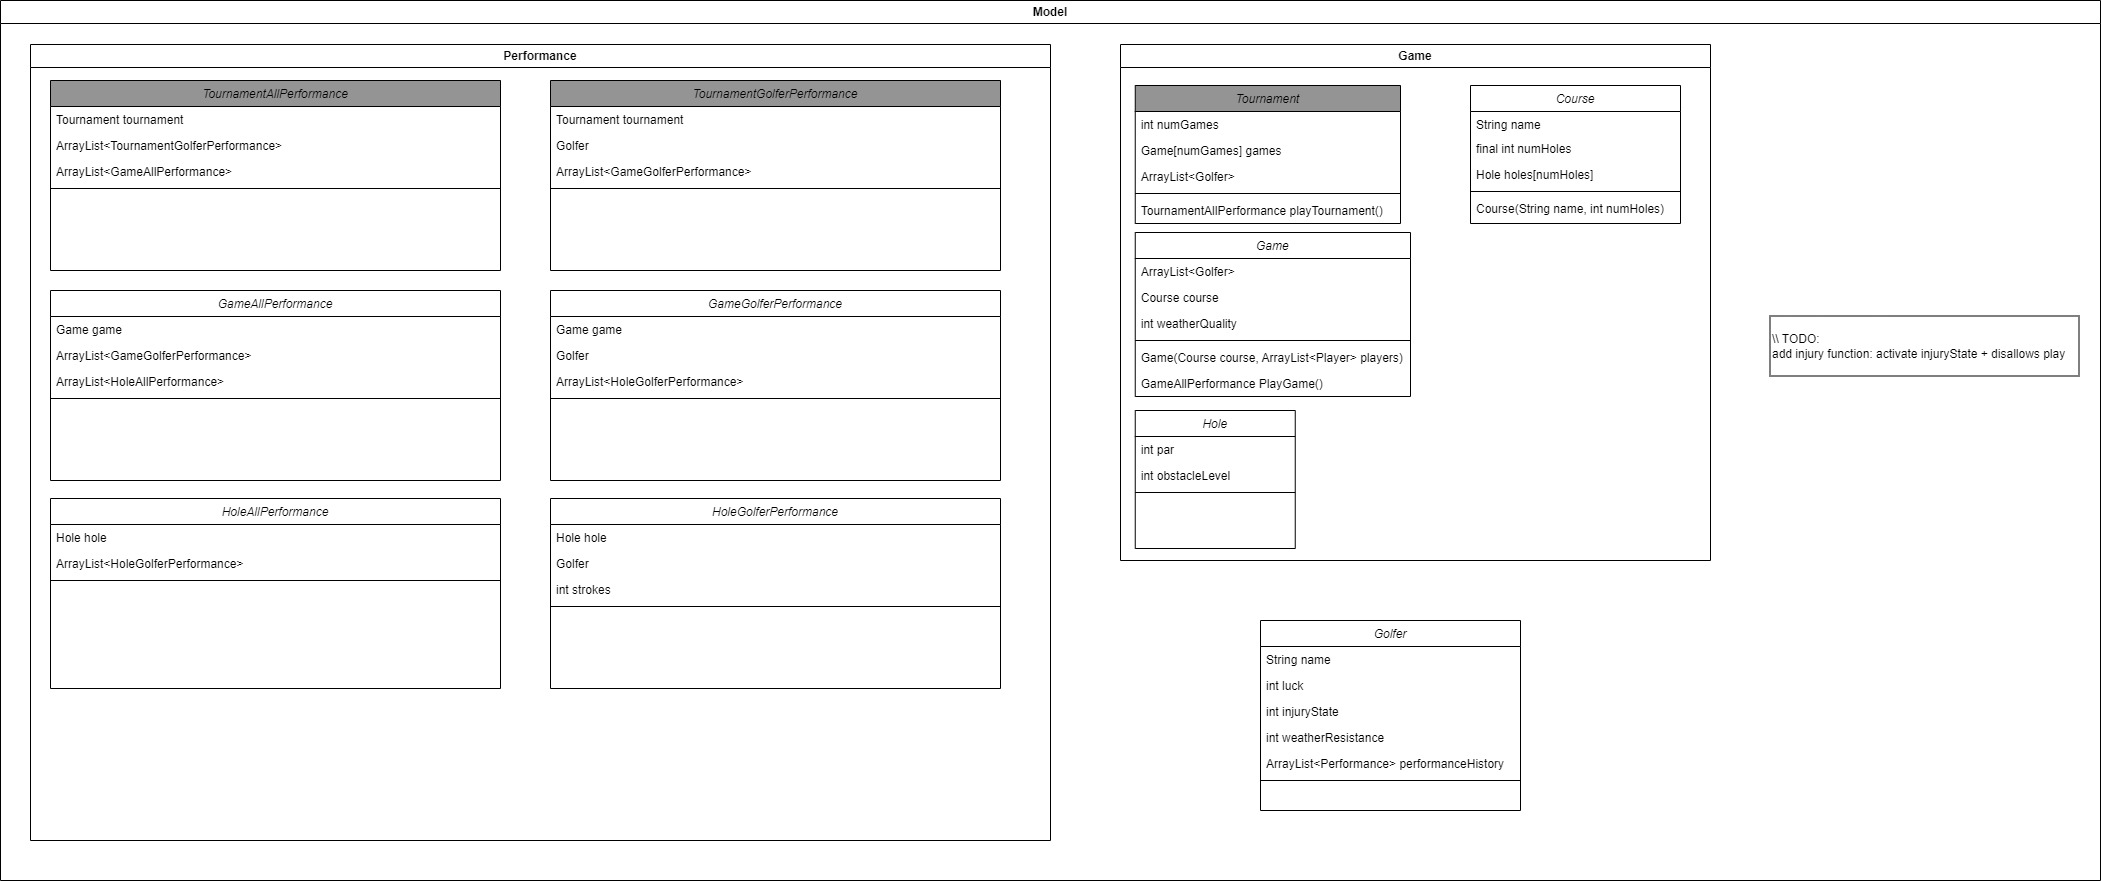
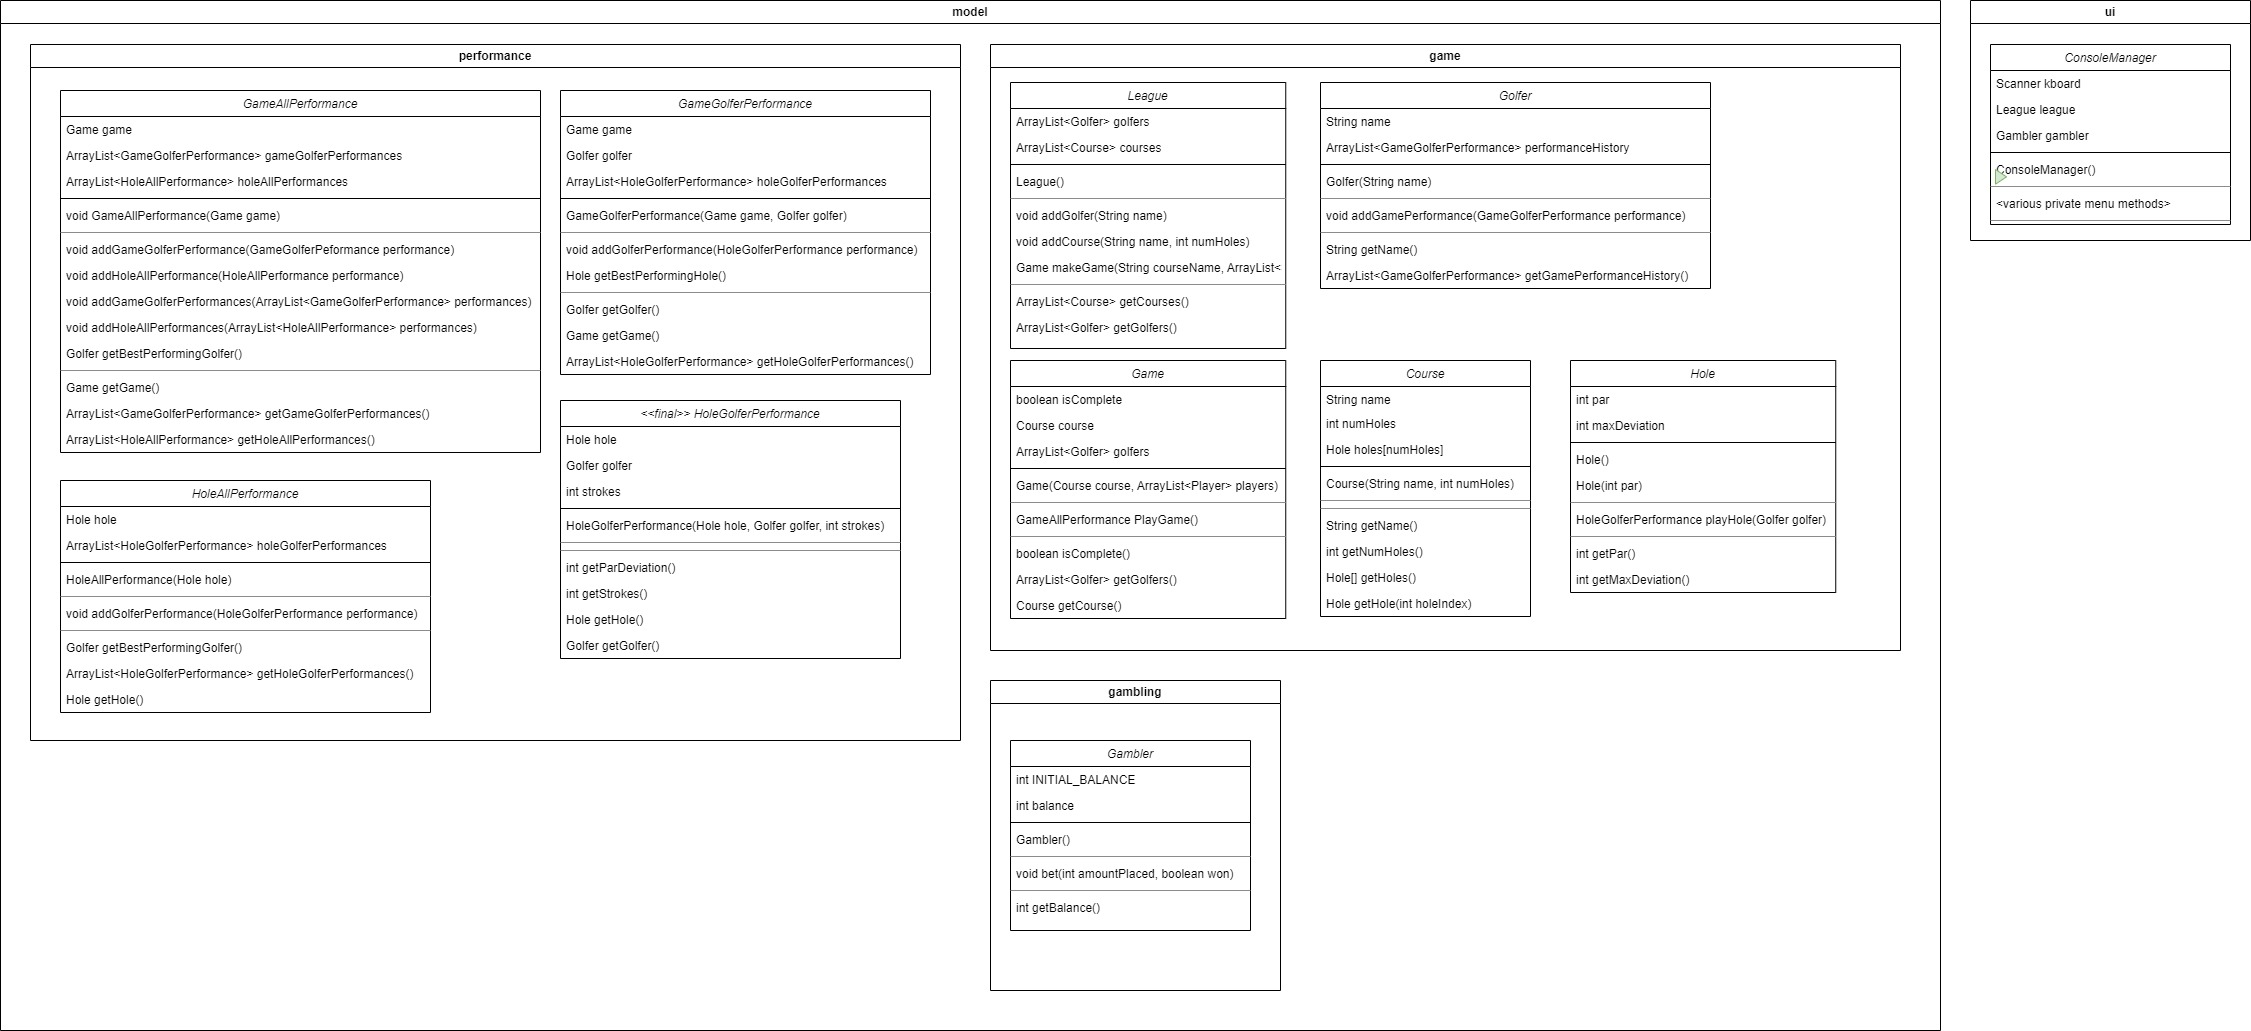
some TODOs + update UML + continue console ui

diff --git a/src/main/model/performance/GameAllPerformance.java b/src/main/model/performance/GameAllPerformance.java
@@ -12,9 +12,7 @@ public class GameAllPerformance {
     private ArrayList<GameGolferPerformance> gameGolferPerformances = new ArrayList<>();
     private ArrayList<HoleAllPerformance> holeAllPerformances = new ArrayList<>();
     
-    //TODO: calrify this requires
-    
-    // REQUIRES: game.isComplete()
+    // REQUIRES: game must be completed or in progress
     // EFFECTS: create new GameAllPerformance on given game
     public GameAllPerformance(Game game) {
         this.game = game;
@@ -27,11 +25,19 @@ public class GameAllPerformance {
         this.gameGolferPerformances.add(performance);
     }
     
+    
     // REQUIRES: performance.getHole() is in this games course
     // MODIFIES: this
     // EFFECTS: stores given performance
     public void addHoleAllPerformance(HoleAllPerformance performance) {
         this.holeAllPerformances.add(performance);
+    }
+    
+    // REQUIRES:
+    // MODIFIES:
+    // EFFECTS:
+    public void addGameGolferPerformances(ArrayList<GameGolferPerformance> performances) {
+        //TODO addGameGolferPerformances is a stub
     }
     
     // REQUIRES: all performances holes are in this games course

diff --git a/src/main/model/game/Hole.java b/src/main/model/game/Hole.java
@@ -5,7 +5,6 @@ import model.performance.HoleGolferPerformance;
 public class Hole {
     private final int par; // expected # of strokes
     private final int maxDeviation;
-    //private int obstacleLevel;
     
     // EFFECTS: create new hole with random[1,5] par
     public Hole() {

diff --git a/src/main/model/performance/HoleGolferPerformance.java b/src/main/model/performance/HoleGolferPerformance.java
@@ -3,7 +3,7 @@ package model.performance;
 import model.game.Golfer;
 import model.game.Hole;
 
-public class HoleGolferPerformance {
+public final class HoleGolferPerformance {
     private final Hole hole;
     private final Golfer golfer;
     private final int strokes;

diff --git a/src/main/model/game/League.java b/src/main/model/game/League.java
@@ -49,9 +49,6 @@ public class League {
         return new Game(courseToAdd, golfersToAdd);
     }
     
-    //TODO make tournament function?
-    
-    
     public ArrayList<Course> getCourses() {
         return courses;
     }
